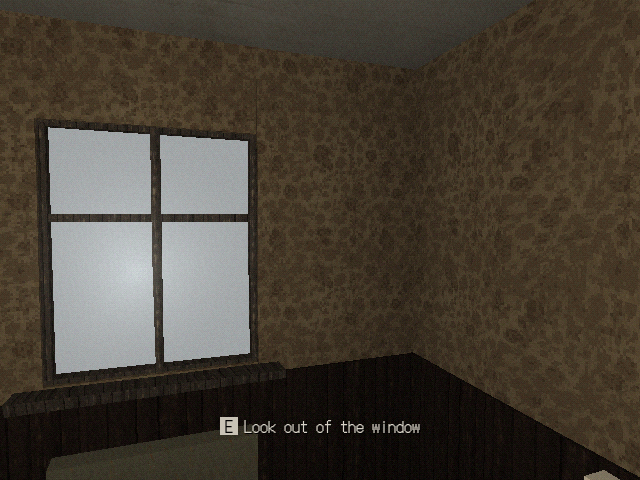
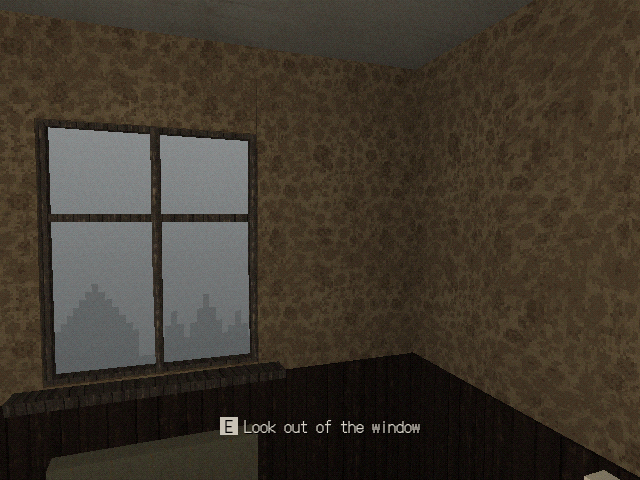
Give Marc his candle at K.P. 3, fog the inn windows, and update the scares script
Marc holds his candle low in the passage, as in the doorway jumpscare, instead of a light on the floor behind him. The inn rooms use the kit's fogWindow, so the panes show fog with roofs instead of flat white, and the inn's old copy is gone. 07-scares.md describes jumpscare 2 at the regulars' table and adds for2_cup.

Changed region(s): [[0.0625, 0.25, 0.4062, 0.7812]]

diff --git a/src/levels/inn/interior.ts b/src/levels/inn/interior.ts
@@ -4,7 +4,7 @@ import type { LevelKit } from '../../game/kit/levelKit';
 
 /**
  * Building blocks shared by the village interiors: the inn, the laiterie, the garage, and the
- * Gremaud kitchen. Walls with openings cut in them, floors and ceilings, windows full of fog,
+ * Gremaud kitchen. Walls with openings cut in them, floors and ceilings,
  * hanging lamps, and looping sounds that stop with the scene.
  */
 
@@ -100,55 +100,6 @@ export function skirting(kit: LevelKit, from: [number, number], to: [number, num
   const [x2, z2] = to;
   const yaw = (Math.atan2(-(z2 - z1), x2 - x1) * 180) / Math.PI;
   kit.box({ w: Math.hypot(x2 - x1, z2 - z1), h: 0.1, d: 0.03 }).color(color).at((x1 + x2) / 2, base, (z1 + z2) / 2).rotY(yaw);
-}
-
-export interface WindowSpec {
-  /** The middle of the opening, on the wall's centerline. */
-  x: number;
-  z: number;
-  /** The way the room side faces, in degrees: 0 faces -Z, 90 faces -X. */
-  facing: number;
-  w: number;
-  h: number;
-  /** Sill height above the floor. */
-  y: number;
-  night: boolean;
-  /** Floor height. Default 0. */
-  base?: number;
-  /** A street lamp somewhere out in the fog, as an orange smear on the glass at night. */
-  lamp?: boolean;
-}
-
-/**
- * A window with grey fog pressed against it by day and black glass at night. It lets cold light
- * into the room by day. Cut the opening in the wall with a `Gap` of the same size first.
- */
-export function fogWindow(kit: LevelKit, spec: WindowSpec): void {
-  const { w, h, y, night } = spec;
-  kit
-    .group((g) => {
-      // The fog outside: a pale pane, unlit so it reads as light coming in.
-      g.box({ w, h, d: 0.02 }).color(night ? 0x0b0d12 : 0x9ea4a6).unlit().at(0, y, 0.03);
-      const frame = (fw: number, fh: number, fx: number, fy: number) => g.box({ w: fw, h: fh, d: 0.07 }).texture('wood_planks', { tile: 0.6 }).color(0xb4ad9c).at(fx, fy, -0.02);
-      frame(w + 0.08, 0.06, 0, y - 0.04);
-      frame(w + 0.08, 0.06, 0, y + h - 0.02);
-      frame(0.06, h, -w / 2, y);
-      frame(0.06, h, w / 2, y);
-      frame(0.04, h, 0, y);
-      frame(w, 0.035, 0, y + h * 0.62);
-      g.box({ w: w + 0.2, h: 0.04, d: 0.2 }).texture('wood_planks', { tile: 0.6 }).color(0x9a9282).at(0, y - 0.05, -0.1);
-      if (night && spec.lamp) g.glow(0.9, 0xa86a28).at(w * 0.22, y + h * 0.7, 0.01);
-      if (!night) g.glow(Math.max(w, h) * 1.2, 0x2a2e30).at(0, y + h / 2, -0.15);
-    })
-    .at(spec.x, spec.base ?? 0, spec.z)
-    .rotY(spec.facing);
-  if (night && !spec.lamp) return;
-  const rad = (spec.facing * Math.PI) / 180;
-  const inward = { x: -Math.sin(rad), z: -Math.cos(rad) };
-  // By day the fog's cold light; at night the street lamp's orange, faint.
-  kit
-    .light(night ? { color: 0x8a5a30, intensity: 0.8, range: 4.5 } : { color: 0x8a949c, intensity: 1.2, range: 5.5 })
-    .at(spec.x + inward.x * 1.2, (spec.base ?? 0) + y + h * 0.5, spec.z + inward.z * 1.2);
 }
 
 /** A bulb under a shade on a cord, its glow, and the light it gives. Returns the light builder. */

diff --git a/src/levels/bunker_interior/index.ts b/src/levels/bunker_interior/index.ts
@@ -506,13 +506,12 @@ function kp3Door(kit: LevelKit, ctx: SceneContext, phase: StoryPhase): Kp3Door {
     });
   };
 
-  // Night 3: candlelight under the door, and behind it once the door is open.
+  // Night 3: candlelight under the door from Marc's candle on the other side.
   const night3 = phase === 'night3';
   const candle = night3 && !open;
   const lineUnder = kit.box({ w: 0.02, h: 0.012, d: 0.84 }).unlit().color(0xffa850).at(KP3.x - 0.06, 0, KP3.z);
   lineUnder.object.visible = candle;
   const glow = kit.light({ color: 0xff9a48, intensity: candle ? 0.5 : 0, range: 1.8 }).at(KP3.x - 0.4, 0.1, KP3.z);
-  if (night3) kit.light({ color: 0xff9440, intensity: 0.9, range: 3.4 }).flicker(0.25).at(15.6, 0.5, -31);
   const putOutCandle = () => {
     lineUnder.object.visible = false;
     if (glow.light) glow.light.intensity = 0;
@@ -599,12 +598,12 @@ function kp3Door(kit: LevelKit, ctx: SceneContext, phase: StoryPhase): Kp3Door {
 }
 
 /**
- * The right knock: Marc in the passage behind the door, well back, the candle behind him. He is
+ * The right knock: Marc in the passage behind the door, well back, holding his candle low. He is
  * there when the door swings open, and the reporter turns to him, so a photo he allows has him in
  * it. When he has said goodbye he goes back into the dark.
  */
 function marcInThePassage(kit: LevelKit, ctx: SceneContext) {
-  const marc = kit.npc('marc').at(MARC_BACK.x, 0, MARC_BACK.z).faceYaw(markers.marc_door.yaw);
+  const marc = kit.npc('marc').at(MARC_BACK.x, 0, MARC_BACK.z).faceYaw(markers.marc_door.yaw).holdCandle();
   marc.object.visible = false;
   return {
     show: () => {

diff --git a/src/levels/inn/upstairs.ts b/src/levels/inn/upstairs.ts
@@ -1,12 +1,13 @@
 import type { Group } from 'three';
 import type { LevelKit } from '../../game/kit/levelKit';
 import type { SceneContext } from '../../game/scene';
+import { fogWindow } from '../../game/kit/windows';
 import { movingBlocker } from '../bunker_interior/concrete';
 import { everyFrame } from '../church/everyFrame';
 import { playNode } from '../forest_path/play';
 import type { InnDressing } from './dressing';
 import { chair } from './furniture';
-import { fogWindow, floorAndCeiling, pendantLamp, skirting, wall, type Finish } from './interior';
+import { floorAndCeiling, pendantLamp, skirting, wall, type Finish } from './interior';
 import { BED, CORRIDOR, CORRIDOR_DOORS, RADIATOR, ROOM3, ROOM3_DESK, ROOM3_DOOR, STAIRS, UPPER } from './layout';
 
 /** The stairs, the upstairs corridor with its doors, and room 3 under the roof. */

diff --git a/src/levels/inn/cafe.ts b/src/levels/inn/cafe.ts
@@ -1,9 +1,10 @@
 import type { LevelKit } from '../../game/kit/levelKit';
 import type { SceneContext } from '../../game/scene';
+import { fogWindow } from '../../game/kit/windows';
 import { playNode } from '../forest_path/play';
 import { cafeLit, darkOutside, type InnDressing } from './dressing';
 import { bottles, cafeTable, chair, placeSetting } from './furniture';
-import { fogWindow, floorAndCeiling, pendantLamp, skirting, wall, type Finish } from './interior';
+import { floorAndCeiling, pendantLamp, skirting, wall, type Finish } from './interior';
 import { CAFE, COUNTER, FRONT_DOOR, KITCHEN_DOOR, STAIRS, STUBLI_DOOR, SUPPER_TABLE, TABLES } from './layout';
 
 /** The café on the ground floor: six tables, the counter, the television on its bracket. */

diff --git a/src/levels/inn/stubli.ts b/src/levels/inn/stubli.ts
@@ -1,7 +1,8 @@
 import type { LevelKit } from '../../game/kit/levelKit';
+import { fogWindow } from '../../game/kit/windows';
 import { darkOutside, type InnDressing } from './dressing';
 import { chair } from './furniture';
-import { fogWindow, floorAndCeiling, pendantLamp, wall, type Finish } from './interior';
+import { floorAndCeiling, pendantLamp, wall, type Finish } from './interior';
 import { DESK, PHONE, SCREEN, STUBLI, STUBLI_DOOR } from './layout';
 
 /**

diff --git a/docs/script/07-scares.md b/docs/script/07-scares.md
@@ -64,13 +64,13 @@ Only these three. Each has a loud sound hit. Nothing else in the game has one.
 
 **Why it's earned.** It is the first night, the first time in the dark, the cemetery. The player is braced for Le Loyon. It's a dog. It also teaches the mechanic that will matter on night 2.
 
-### Jumpscare 2: the doorway (day 3 evening, inn)
+### Jumpscare 2: the regulars' table (day 3 evening, inn)
 
 **Build.** All game, veilleur's posts have described where the reporter is and what they did. On day 3 the inn is empty: Monique is in the kitchen, the café lights are off. The stübli is lit only by the monitor. The modem handshake, then the board loads, slowly, image by image. A new post at the top, time-stamped a minute ago. It describes the room the player is sitting in: the cup, the coat, the light in the kitchen. "turn around."
 
-**Hit.** The player has to turn the reporter around with tank controls, which takes about two seconds for 180 degrees. The doorway behind is dark. Yannick is standing in it, hood up, face half lit by the monitor, completely still. At the moment he is fully in view, a floorboard cracks under his foot (the hit) and he flinches.
+**Hit.** Yannick is already in the stübli. He sits in the dark on the corner bench at the regulars' table, behind the reporter's right shoulder, hood up, where the monitor's light only just reaches his face. He has been there while the reporter read. The player has to turn the reporter around with tank controls, which takes about two seconds for 180 degrees, so he comes in at the edge of view first and the player sees him before they understand him. At the moment he is fully in view, the bench creaks (the hit) and he stands up. The doorway stays empty: a figure in a doorway is Marc's, the same night.
 
-If the player refuses to turn for 40 s: the floorboard cracks behind them anyway and Yannick says "Sorry." Same scene.
+If the player refuses to turn for 40 s: the bench creaks behind them anyway, Yannick says "Sorry.", and the reporter turns to him. Same scene.
 
 **Resolve.** `yannick_reveal`. He's sixteen and embarrassed. He wrote every post.
 
@@ -195,6 +195,7 @@ The dig is the longest tense sequence in the game. The patrol is the threat. Le 
 | `for2_heifer` | Finding Marquise | She stands still at the forest edge, staring into the trees. Her bell is silent because she doesn't move. | Setup. |
 | `for2_stump` | Following her gaze | A dark vertical shape 25 m in. If the player looks away and back, it's gone. If they walk to it, it's a mossy stump in a different place than they thought. Then, deeper in, `sfx_branch`. | Open. The stump is false. The branch is real. Players won't be sure which was which. |
 | `for2_led_home` | Leading the heifer | She keeps looking back over her shoulder at the forest. If the player looks back too, there is nothing. Every time. | False, every time. The heifer knows something the player can't see. |
+| `for2_cup` | Day 2, after `bunker_door_open`, walking back past the stump beside the fort path | An army tin cup stands on the stump with an inch of cold coffee in it. It wasn't there on the way up. Looking at it silences the forest for 9 seconds. Nothing else happens. | Real. Someone was there between the walk up and the walk back. |
 
 ### Bunker, day 2
 
